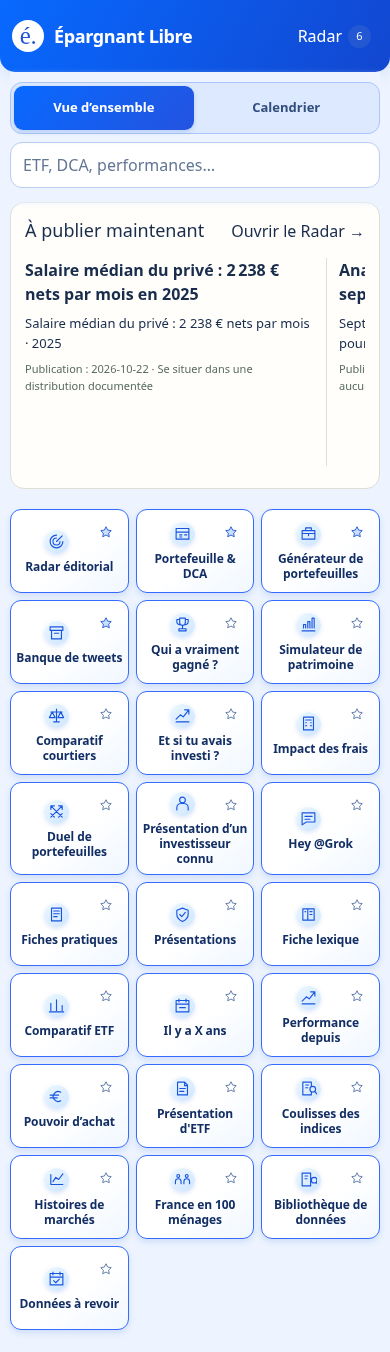
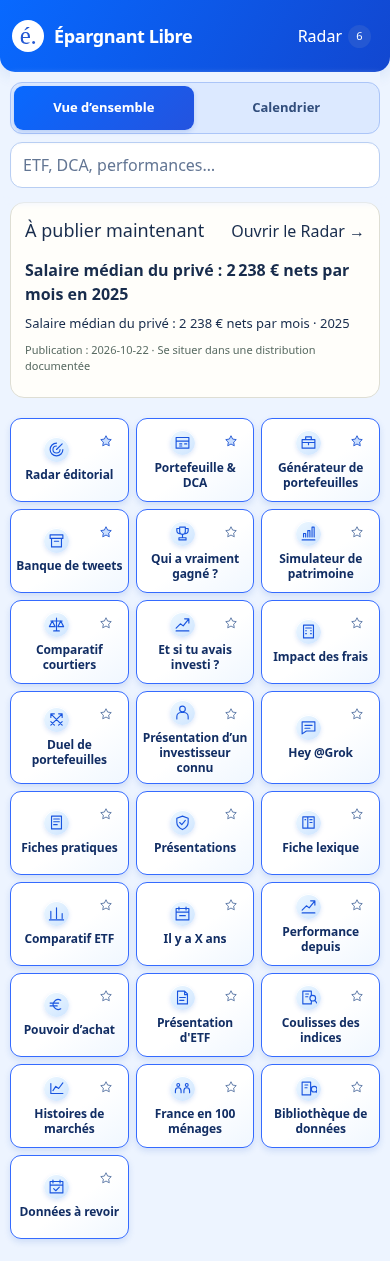
Réserver la sélection immédiate aux faits récents ou développements documentés

Changed region(s): [[0.0, 0.3093, 0.9846, 0.9897], [0.0, 0.0, 1.0, 0.3093], [0.9538, 0.0928, 0.9846, 0.1237]]

diff --git a/src/lib/radar-editorial.js b/src/lib/radar-editorial.js
@@ -101,7 +101,8 @@ export function editorialAssessment(event, now = Date.now(), rules = SCORE_RULES
   ]
   const criteria=raw.map(([key,points,reason,unknown])=>({key,points:Math.round(points*rules[key]/SCORE_RULES[key]),maximum:rules[key],reason,unknown}))
   const score=criteria.reduce((sum,row)=>sum+row.points,0)
-  const priority=quality.usable&&state==='ready'&&material.status==='sufficient'&&score>=rules.priority
+  const current=Number.isFinite(age)&&age>=0&&(age<=7||material.attention.signals.some(s=>['deadline','development','independent'].includes(s.kind)))
+  const priority=current&&quality.usable&&state==='ready'&&material.status==='sufficient'&&score>=rules.priority
   return {score,criteria,qualification,material,reliability:quality,state,type,priority,major:priority&&material.rapidEligible&&score>=rules.major&&Number.isFinite(age)&&age>=0&&age<=2}
 }
 export const editorialScore = (event, now) => editorialAssessment(event, now).score

diff --git a/docs/editorial-radar-publication-policy-2026-10-26.md b/docs/editorial-radar-publication-policy-2026-10-26.md
@@ -48,7 +48,9 @@ ni une découverte automatique ni un délai de production.
 Les critères représentent des usages différents du fait, pas une multiplication du nombre
 de chiffres. Ni marque, partenariat XTB, « record », « choc », taille de tableau ou nombre
 brut de reprises n’apporte de points. Seuils éditoriaux conservés : priorité 65, majeur 85 ;
-ils ne remplacent jamais la fiabilité ni la matière suffisante. Au maximum deux sujets d’un
+ils ne remplacent jamais la fiabilité ni la matière suffisante. La sélection « maintenant »
+requiert aussi une publication de moins de sept jours ou un développement/une échéance
+proche documenté ; les autres exploitables restent consultables sans remplir les places. Au maximum deux sujets d’un
 même domaine et une promotion dans la sélection, une même exposition évite les doublons.
 Tous les autres exploitables restent consultables, recherchables et filtrables.
 
@@ -143,7 +145,7 @@ La supervision technique conserve incidents, essais, preuves et échecs dans le 
 « Données à revoir ». Elle cesse les commentaires à chaque nouvelle tentative/rétablissement
 local. Notification seulement pour une nouvelle panne critique ou extension significative :
 flux global illisible ≥1 h ; producteur Radar global en échec ≥2 h ; publication entière
-bloquée ≥6 h ; au moins deux familles prioritaires indisponibles ≥2 h. Rappels espacés d’au moins
+bloquée ≥6 h ; au moins deux familles prioritaires affectées ≥2 h. Rappels espacés d’au moins
 24 h, reçu durable et récupération après perte de réponse. Le déploiement de la politique
 initialise les anciens incidents sans rafale. Les détails HTTP seuls ne créent pas une nouvelle alerte.
 
